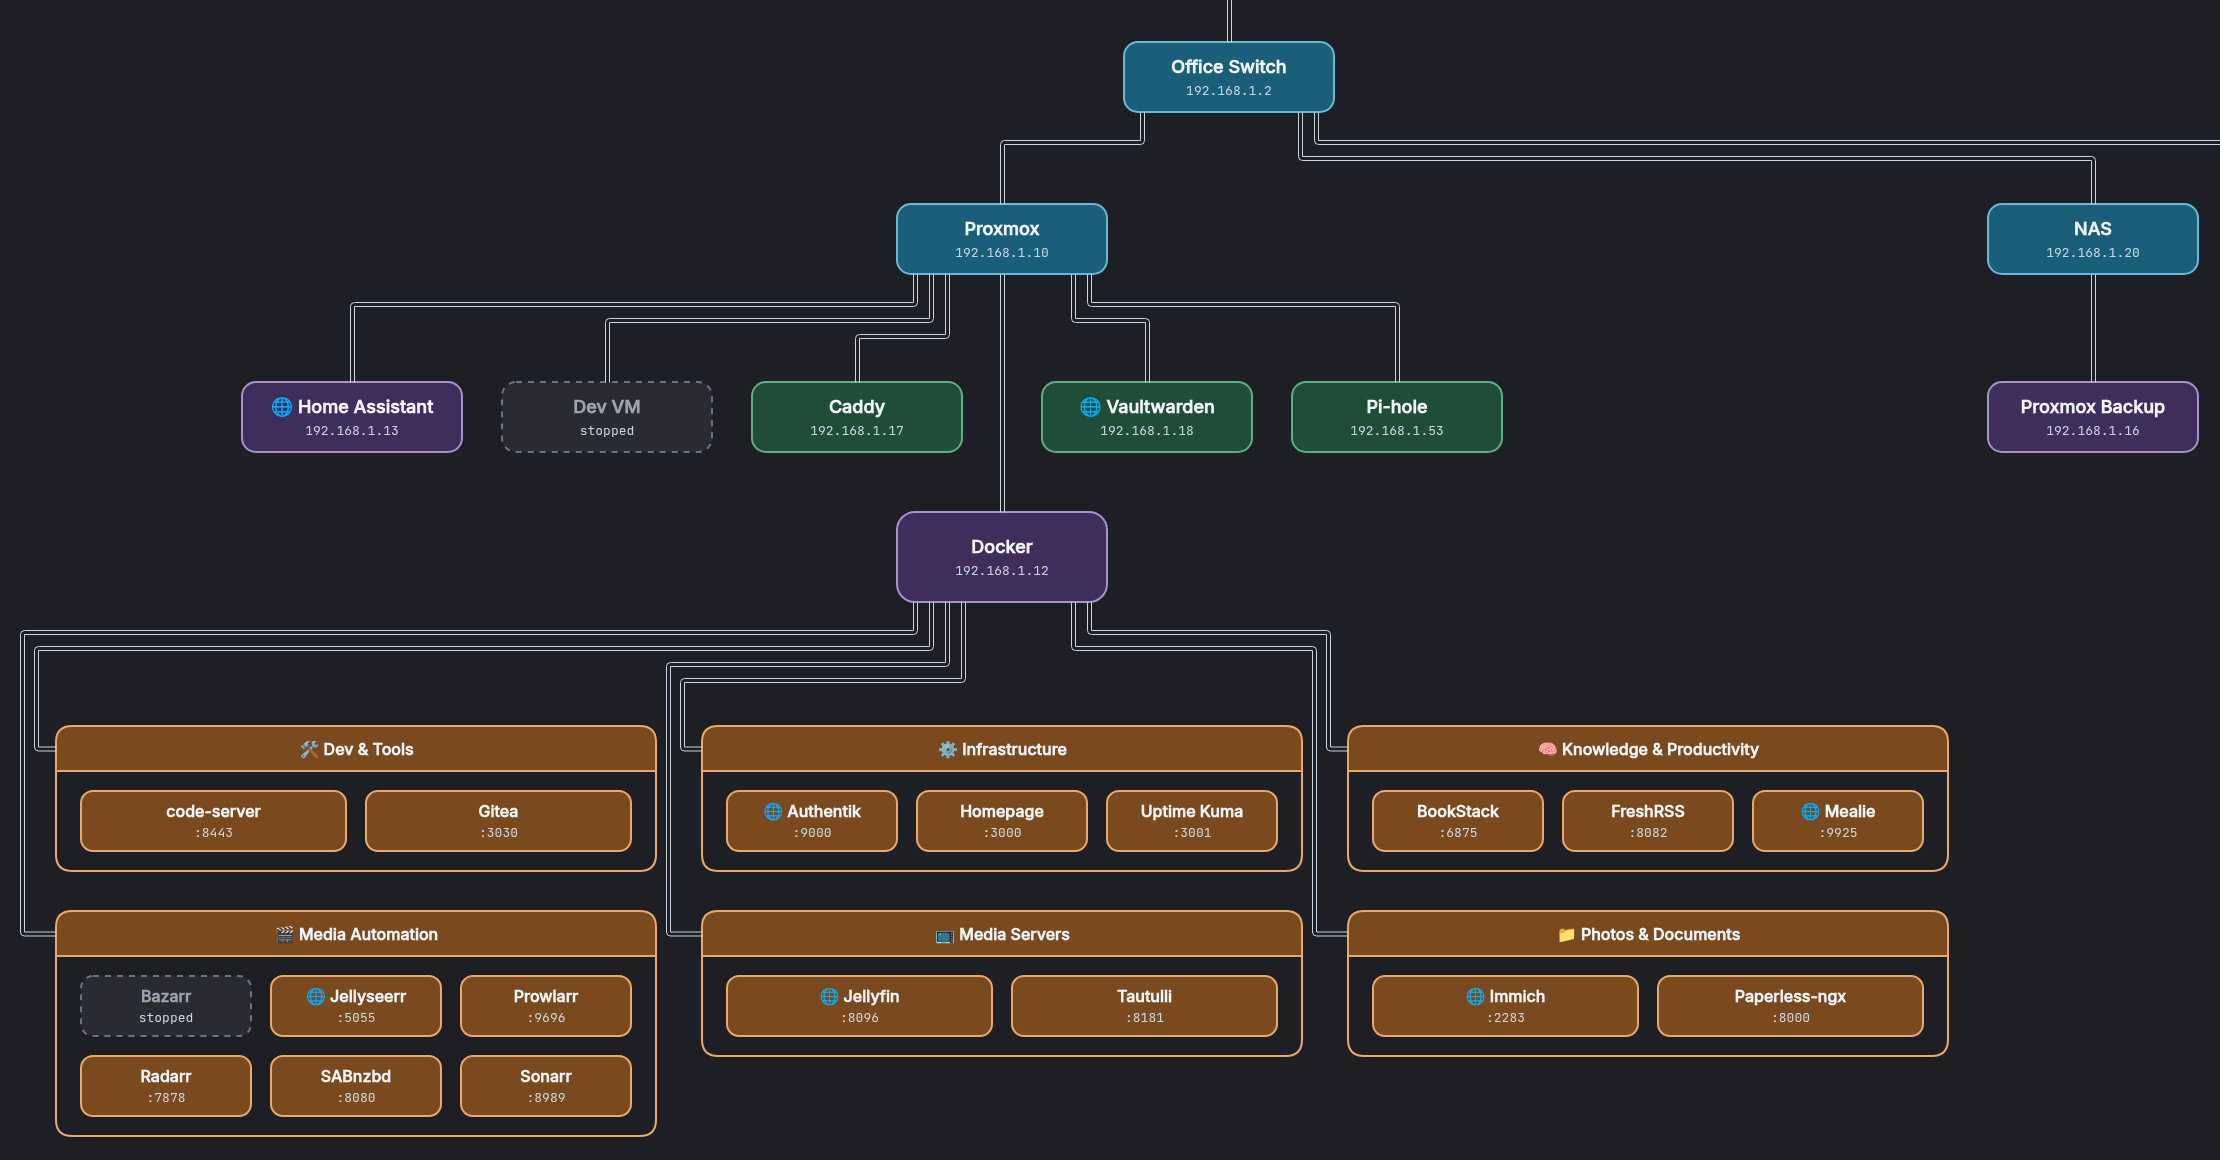
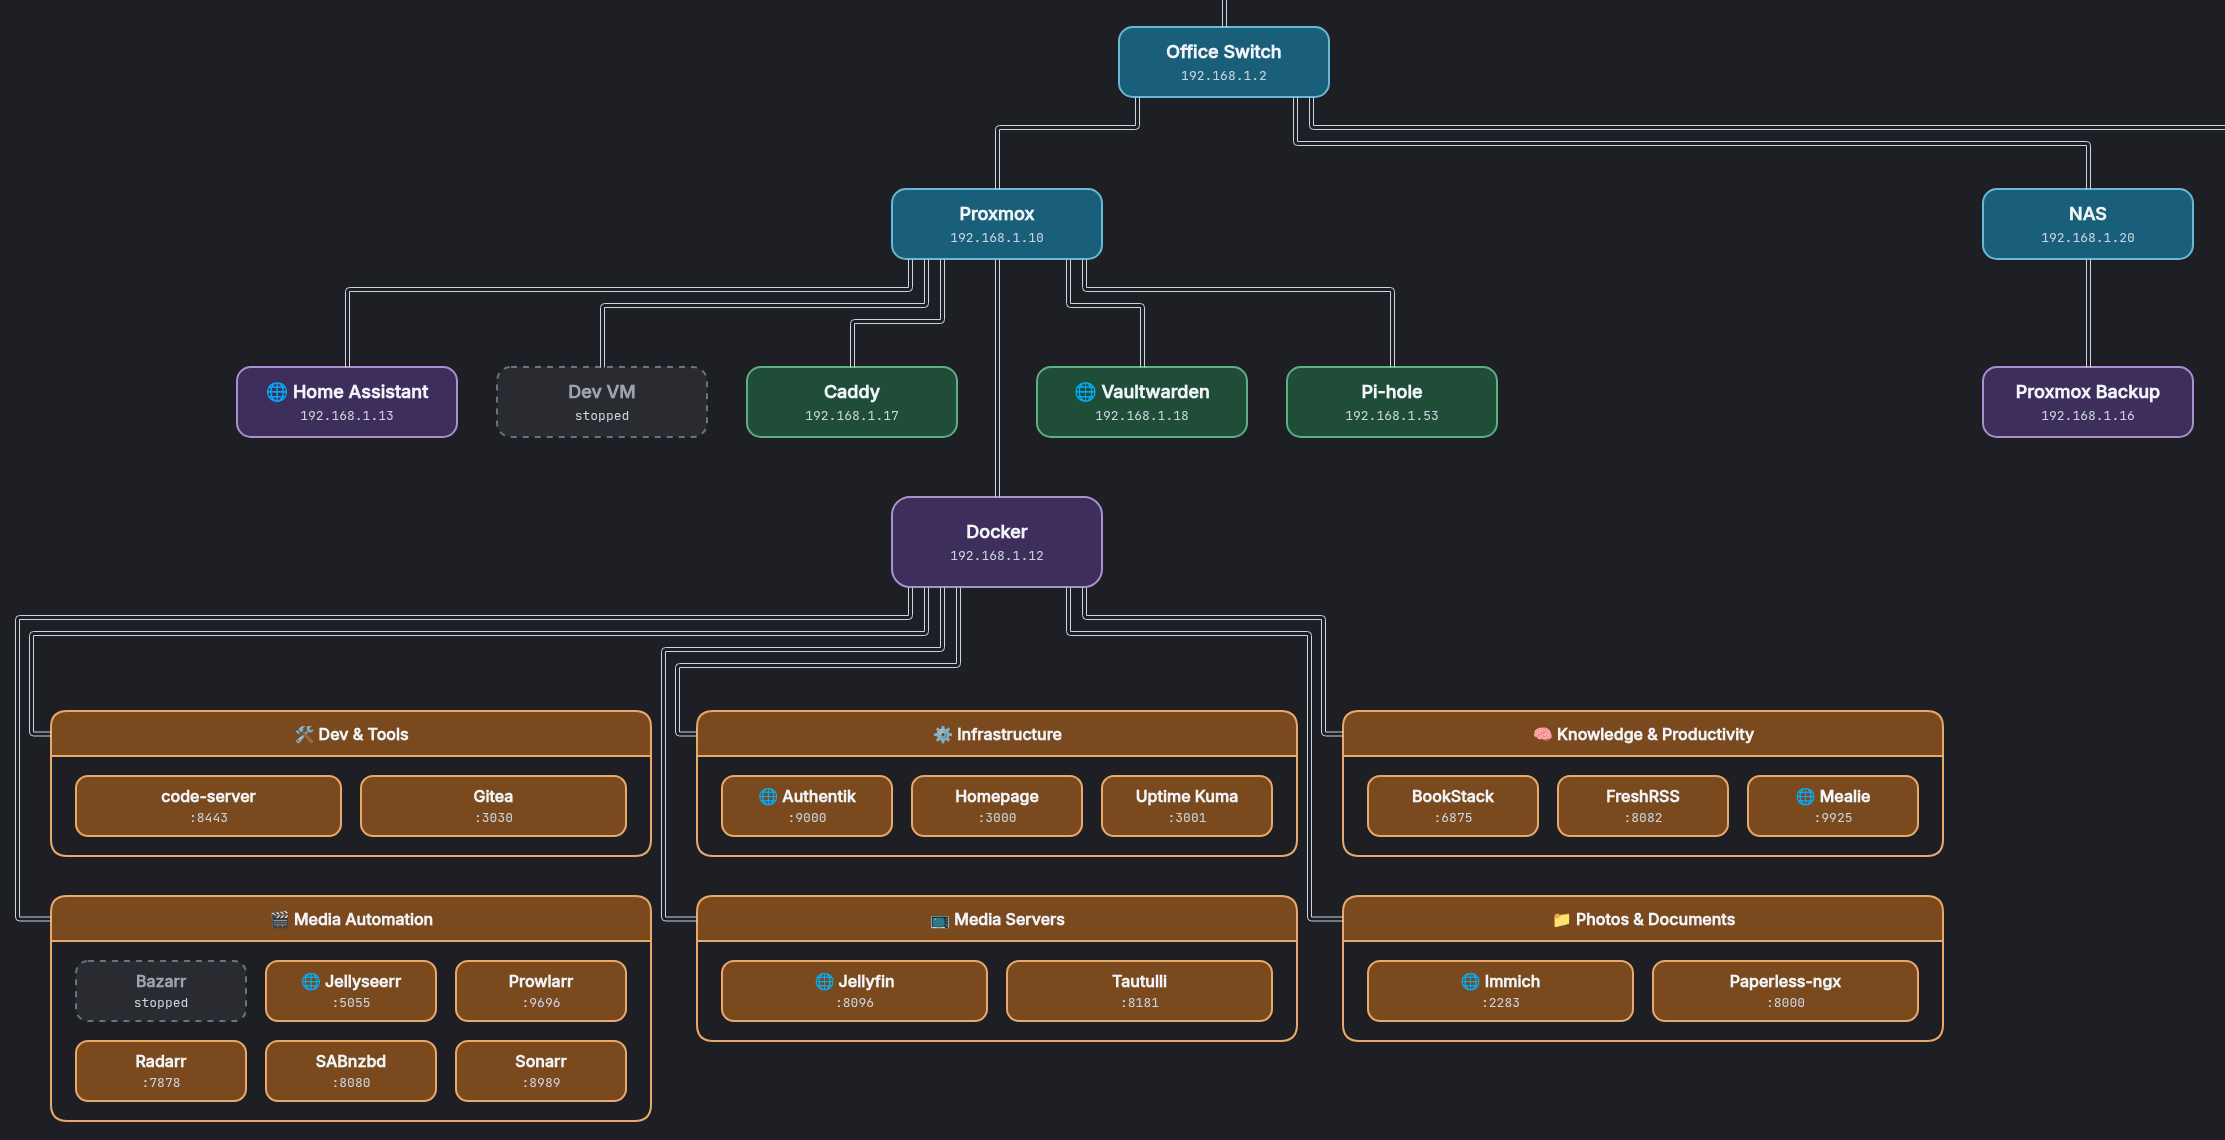
Put the VPN lane right beside the gateway
It used to sit left of the gateway's whole row, reserving an empty
full-height strip. Now it sits next to the gateway with a short line; the
row is as tall as the lane so the gateway's other lines turn below it, and
width is only reserved when the gateway is too close to the edge.
Maps get 16-19% narrower. 3,000 random homelabs: no overlaps.

diff --git a/homelab_map/layout.py b/homelab_map/layout.py
@@ -327,7 +327,10 @@ def _measure(t):
     t.row_w = row
     t.sub_w = max(t.w, row)
     if t.vpn:
-        t.sub_w += t.vpn.w + SIBLING_GAP
+        # the VPN lane sits just left of the node; reserve width only if the node could be too close
+        # to the left edge for it (centring on a child can move the node up to half its width)
+        t.vpn_pad = max(0, t.vpn.w + SIBLING_GAP - (t.sub_w / 2 - t.w))
+        t.sub_w += t.vpn_pad
     return t.sub_w
 
 
@@ -336,10 +339,10 @@ def _item_w(it):
 
 
 def _place_x(t, left):
-    if t.vpn:  # the VPN lane sits left of everything else, beside the node
-        t.vpn.x = left
-        left += t.vpn.w + SIBLING_GAP
-        inner = t.sub_w - t.vpn.w - SIBLING_GAP
+    if t.vpn:  # room kept on the left for the VPN lane, if the node needed it (see _measure)
+        outer_left = left
+        left += t.vpn_pad
+        inner = t.sub_w - t.vpn_pad
     else:
         inner = t.sub_w
     if t.hoisted:
@@ -364,12 +367,16 @@ def _place_x(t, left):
     if t.grid:
         t.grid.x = x if t.items else start
         t.x = t.grid.x + t.grid.mid_centre() - t.w / 2  # over the middle column, clear of all channels
+        if t.vpn:
+            t.vpn.x = max(t.x - SIBLING_GAP - t.vpn.w, outer_left)
         return
     row_centre = start + t.row_w / 2 if t.items else left + inner / 2
     # centre the node over the item nearest the middle when that one is close, so it gets a straight line
     near = min(centres, key=lambda c: abs(c - row_centre), default=row_centre)
     cx = near if abs(near - row_centre) <= t.w / 2 or len(centres) == 1 else row_centre
     t.x = min(max(cx - t.w / 2, left), left + inner - t.w)
+    if t.vpn:
+        t.vpn.x = max(t.x - SIBLING_GAP - t.vpn.w, outer_left)
 
 
 def _place_item(it, x):
@@ -428,7 +435,7 @@ def layout(graph, cfg, top=0, left=0):
     bands = {}
     for depth in range(max(rows) + 1):
         trees = rows.get(depth, [])
-        row_h = max((t.h for t in trees), default=0)
+        row_h = max((max(t.h, t.vpn.h if t.vpn else 0) for t in trees), default=0)
         for t in trees:
             t.y = row_top
         band = BAND_PAD * 2
